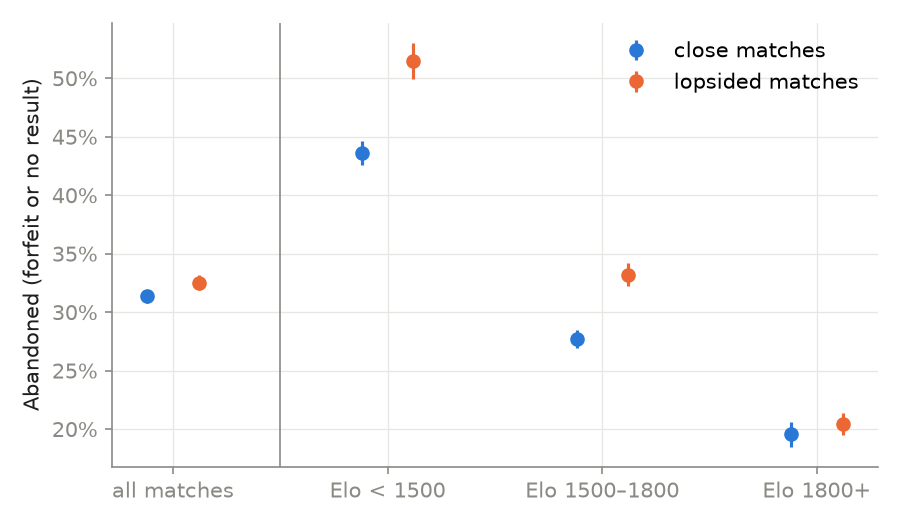
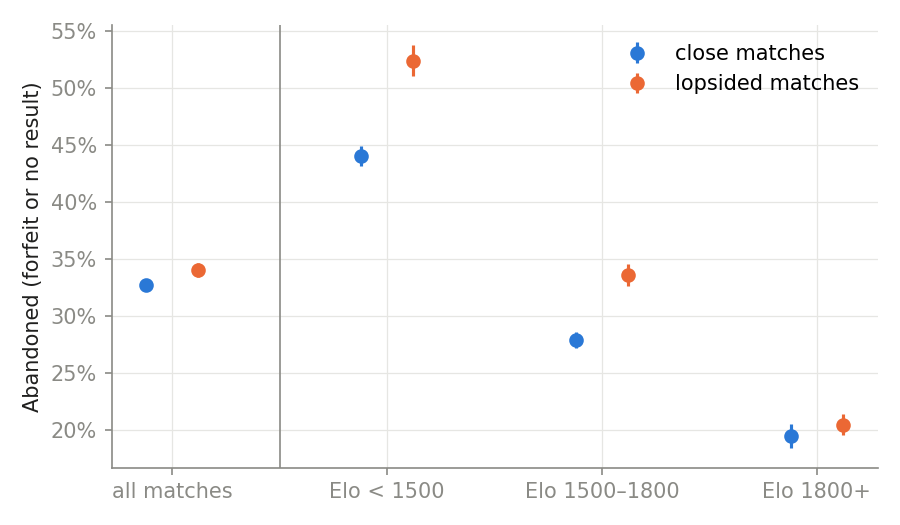
Add README with Season 7 draft numbers

diff --git a/README.md b/README.md
@@ -1,12 +1,45 @@
-# mcsr-analysis
+# MCSR Ranked: an independent analysis
 
-Independent analysis of MCSR Ranked data (public [MCSR Ranked API](https://docs.mcsrranked.com)).
+[MCSR Ranked](https://mcsrranked.com) is a 1v1 ladder for Minecraft speedrunning: two players race to beat the game on the same randomly chosen seed. Using the public API, this looks at 56,454 ranked matches from Season 7 (Dec 2024 – Apr 2025) involving the top 150 players.
 
-## Fetching data
+## Findings
+
+### 1. The rating system's win predictions are accurate
+
+![Predicted vs. actual favorite win rate](figures/calibration.png)
+
+The system's predicted win probability can be recovered from rating changes: every match moves 40 points, so a winner gains 40 × (1 − p). Across all matches, predicted and actual win rates differ by 0.4 percentage points on average. The only gap is above 75% predicted (2% of matches), where favorites win about 4 points less often than predicted.
+
+**Implication:** predictions are reliable enough to show players or to use in matchmaking as they are.
+
+### 2. Lopsided matches are abandoned more often, but only within a skill level
+
+![Abandonment rate, close vs. lopsided matches](figures/abandonment.png)
+
+A match is *close* if the favorite's predicted win probability is under 60%, and *abandoned* if it ended in a forfeit or with no result. Overall, close and lopsided matches look the same (33% vs. 34% abandoned). Within each skill level, lopsided matches are abandoned more: 44% vs. 52% below 1500 Elo, 28% vs. 34% at 1500–1800. The aggregate hides this because skill level drives abandonment far more than closeness: 44–52% below 1500, about 20% above 1800.
+
+**Implication:** tighter matchmaking for lower-rated players may reduce abandonment. This is observational, so it's a hypothesis for an experiment, not a result.
+
+### 3. The seed pool is balanced
+
+![Median completion time by seed type](figures/seed_completion_time.png)
+
+Seeds are assigned at random, so differences between seed types are effects of the seed. Seed type shifts median completion time by at most 0.7 minutes (ruined portal 10.7, village 11.4) and completion rate by at most 4 points (65–69%). On every seed type, favorites win as often as predicted (within 1 point), so no seed type swaps skill for luck.
+
+**Implication:** no seed type needs removing.
+
+## Data and limitations
+
+- Every match involves at least one top-150 player, so results describe high-level play, not the whole ladder.
+- Only matches with a rated favorite are used for findings 1 and 2 (ties and unrated matches excluded).
+- Data from the [MCSR Ranked API](https://docs.mcsrranked.com).
+
+## Reproduce
 
 ```sh
-tmux new -s fetch 'python3 fetch_data.py'   # rerun the same command to resume
+python3 fetch_data.py                 # download raw data to ~/mcsr-data (hours; resumable)
+pip install -r requirements.txt
+python3 analysis.py                   # build tables, print results, save figures/
 ```
 
-Downloads seasons 7 and 11 into `~/mcsr-data`. Assumptions are listed at the top of
-[`fetch_data.py`](fetch_data.py).
+`sql/` holds the table build and each analysis; `test_build.py` checks the table build.
